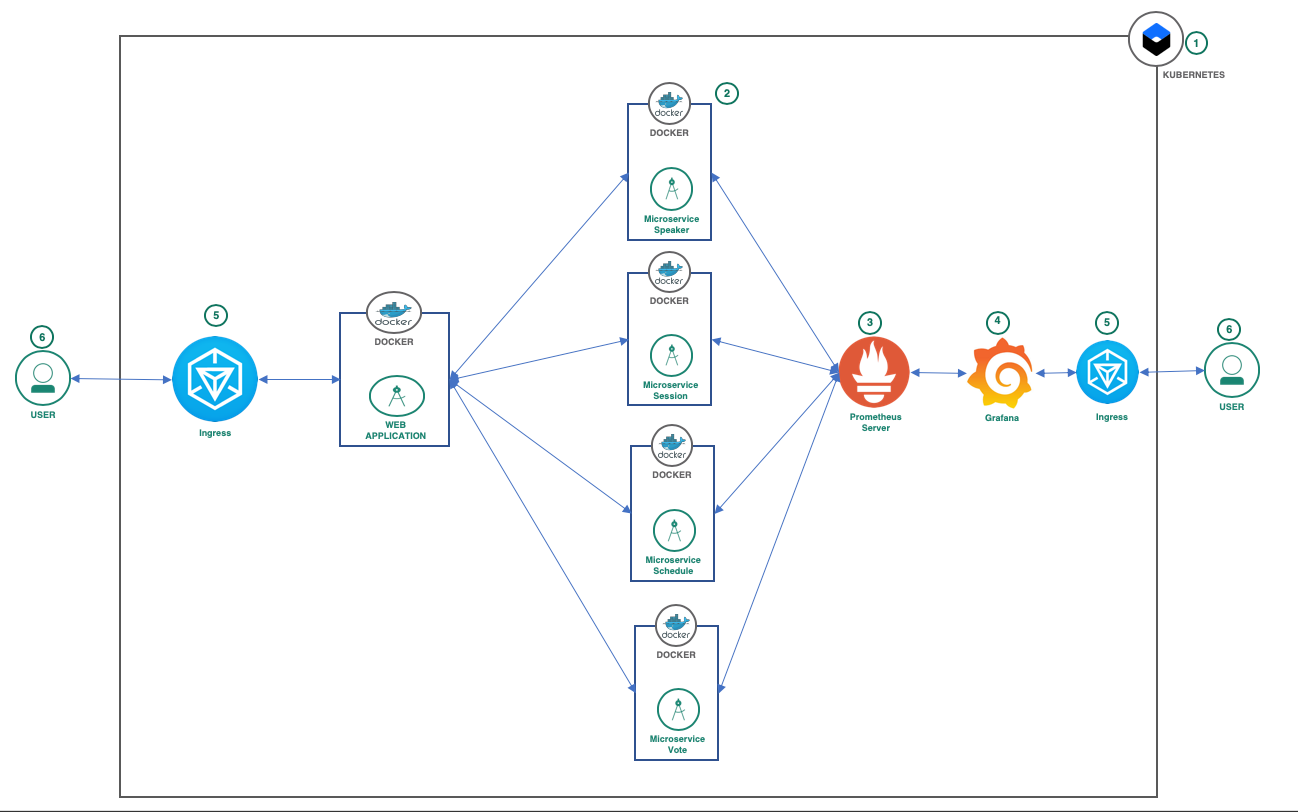
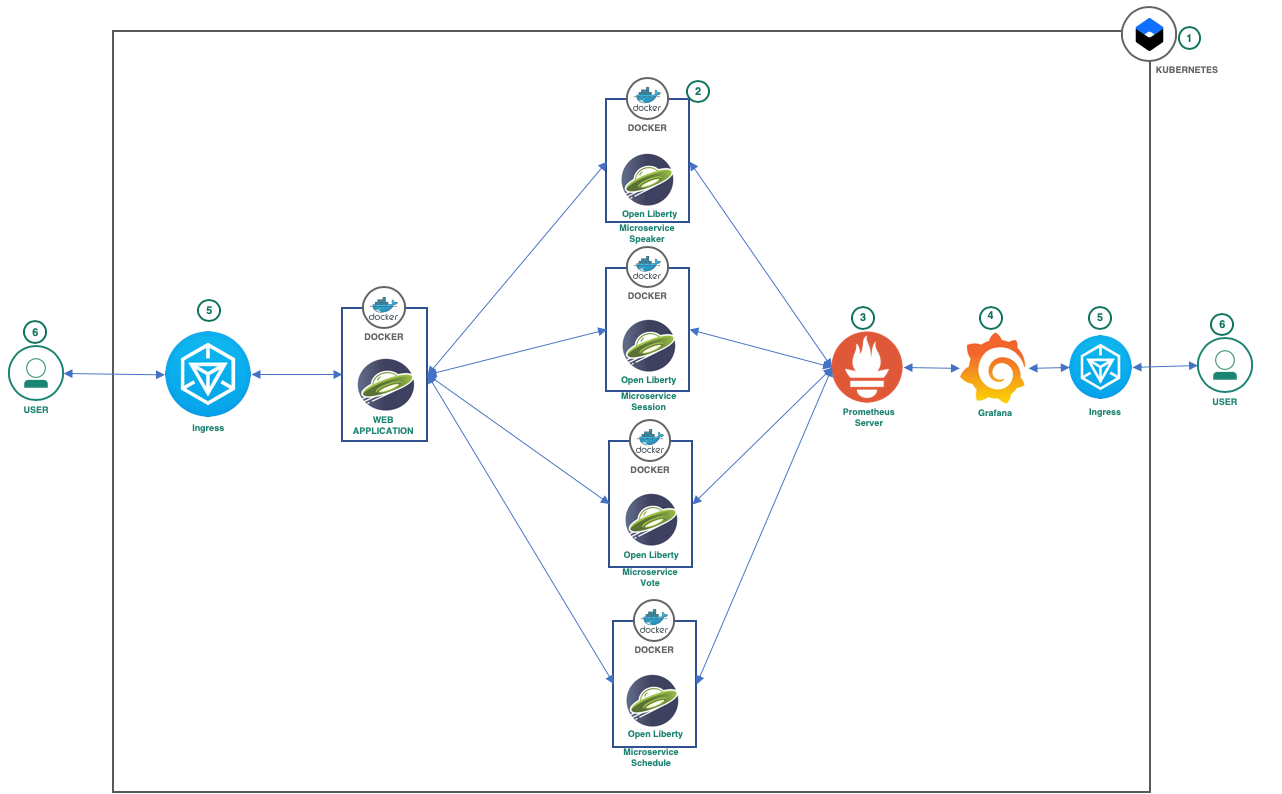
arch diagram updated

diff --git a/README.md b/README.md
@@ -24,6 +24,9 @@ The [sample application](https://github.com/IBM/sample.microservices.web-app) us
 - [Kubernetes Cluster](https://cloud.ibm.com/docs/containers/cs_ov.html#cs_ov)
 - [MicroProfile](https://microprofile.io/)
 - [IBM Cloud Kubernetes Service](https://cloud.ibm.com/catalog?taxonomyNavigation=apps&category=containers)
+- [Grafana](http://docs.grafana.org/guides/getting_started)
+- [Prometheus](https://prometheus.io/)
+- [Open Liberty - ](https://openliberty.io/)
 
 ## Getting Started
 
